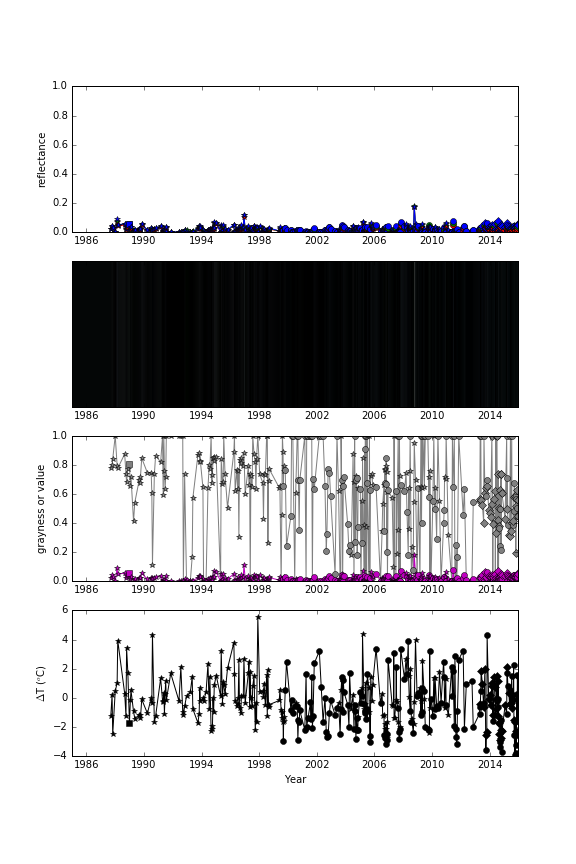
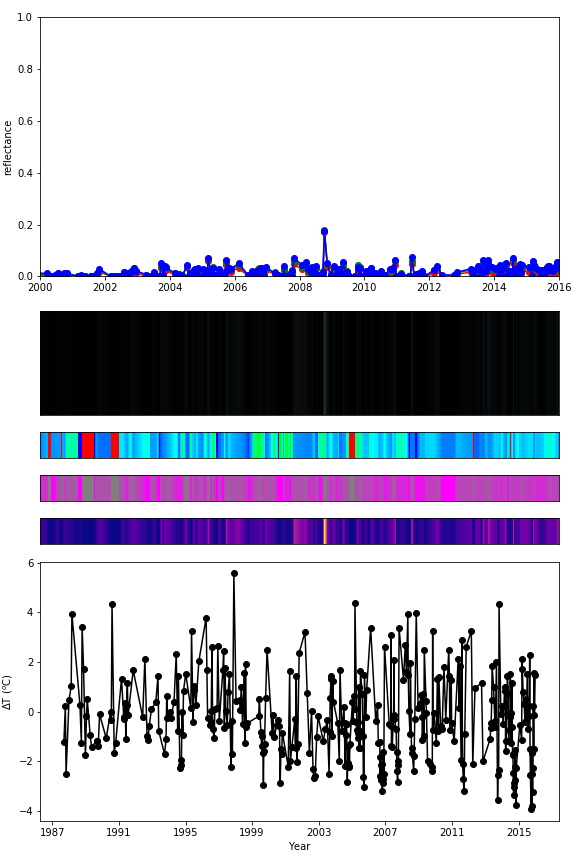
plots push

diff --git a/plot_time_series_v3.py b/plot_time_series_v3.py
@@ -1,13 +1,12 @@
 #!/usr/bin/env python3
 # -*- coding: utf-8 -*-
 """
-plot_time_series_v3.py
 
-Created on Fri Feb 10 16:25:34 2017
+plot_time_series_v2.py
 
+Created on Mon Feb  6 20:53:54 2017
 @author: sam
 """
-
 import os
 import numpy as np
 import datetime
@@ -35,6 +34,23 @@ def interpolate_RGB(r,g,b,timestamps, start, stop):
   return list(zip(R,G,B))
 
 
+
+def grey_magenta_cmap():
+  """
+  Creates a color map from grey to magenta for saturation visualization
+  """
+  
+  color_list = []
+  
+  for alpha in np.linspace(0,1,101):
+    grey_component = np.array([g*(1-alpha) for g in (0.5,0.5,0.5)])
+    magenta_component = np.array([m*alpha for m in (1,0,1)])
+    color_list.append(grey_component+magenta_component)
+    
+  return ListedColormap(color_list, name='from_list')
+
+
+
 # Data
 targets = ['Azufral','Chichon_El','Copahue','Ijen','Kelimutu_a','Kelimutu_b','Kelimutu_c','Poas','Rincon_de_la_Vieja','Ruapehu','Yugama']
 
@@ -51,8 +67,8 @@ for target in targets:
   # Interpolate RGB over time period
   RGB = interpolate_RGB(D['r'],D['g'],D['b'],D['timestamps'],start,stop)
   
-  # Linear strech
-  stretched_RGB = np.array(RGB) * 1/np.max(RGB)
+  # Calculate HSV for interpolated RGB values
+  HSV = [colorsys.rgb_to_hsv(x[0],x[1],x[2]) for x in RGB]
   
   # figure
   fig = plt.figure(figsize=(8,12))
@@ -60,11 +76,12 @@ for target in targets:
   # size of figure components
   plot_height = 0.3
   bar = 0.12
+  minibar = 0.03
   gap = 0.05
-  minigap = 0.02
+  mini_gap = 0.02
   
   # plot r,g,b, trendlines
-  axplot = fig.add_axes([0.07,gap+plot_height+4*minigap+2*bar,0.90,plot_height])
+  axplot = fig.add_axes([0.07,plot_height+gap+6*mini_gap+3*minibar+bar,0.90,plot_height])
   axplot.plot(D['datetimes'],D['r'],'r-o')
   axplot.plot(D['datetimes'],D['g'],'g-o')
   axplot.plot(D['datetimes'],D['b'],'b-o')
@@ -73,17 +90,30 @@ for target in targets:
   axplot.set_ylabel('reflectance')
   
   # visualize rgb
-  axRGB = fig.add_axes([0.07,gap+plot_height+2*minigap+bar,0.9,bar])
+  axRGB = fig.add_axes([0.07,plot_height+gap+4*mini_gap+3*minibar,0.9,bar])
   axRGB.imshow([RGB], interpolation='nearest', aspect='auto') #stretches rgb to fit axes
   axRGB.set_xticks([])
   axRGB.set_yticks([])
   
-  # linear stretch rgb
-  #stretched_RGB
-  axRGB = fig.add_axes([0.07,gap+plot_height+minigap,0.9,bar])
-  axRGB.imshow([stretched_RGB], interpolation='nearest', aspect='auto') #stretches rgb to fit axes
-  axRGB.set_xticks([])
-  axRGB.set_yticks([])
+  # visualize hue (using saturation = 1 and value = 1)
+  hue = [x[0] for x in HSV]
+  H = [colorsys.hsv_to_rgb(h,1,1) for h in hue]
+  axH = fig.add_axes([0.07,plot_height+gap+3*mini_gap+2*minibar,0.9,minibar])
+  axH.imshow([H], interpolation='nearest', aspect='auto',cmap='plasma') 
+  axH.set_xticks([])
+  axH.set_yticks([])
+  
+  # visualize saturation
+  axS = fig.add_axes([0.07,plot_height+gap+2*mini_gap+minibar,0.9,minibar])
+  axS.imshow([[x[1] for x in HSV]], interpolation='nearest', aspect='auto',cmap=grey_magenta_cmap()) 
+  axS.set_xticks([])
+  axS.set_yticks([])
+  
+  # visualize value
+  axV = fig.add_axes([0.07,plot_height+gap+mini_gap,0.9,minibar])
+  axV.imshow([[x[2] for x in HSV]], interpolation='nearest', aspect='auto',cmap='plasma') 
+  axV.set_xticks([])
+  axV.set_yticks([])
   
   # plot delta temperatures
   axT = fig.add_axes([0.07,gap,0.9,plot_height])
@@ -96,9 +126,20 @@ for target in targets:
   if not os.path.exists(outdir):
     os.mkdir(outdir)
   os.chdir(outdir)
-  plt.savefig(target+'_v2.png')
+  plt.savefig(target+'_v3.png')
   plt.close()
-  
+
+
+
+
+
+
+
+
+
+
+
+
 
 
 

diff --git a/plot_time_series_v1.py b/plot_time_series_v1.py
@@ -43,33 +43,37 @@ def read_csv(target):
     print('File IO error for :'+target)
   
 
-target = 'Azufral'
+# Data
+targets = ['Azufral','Chichon_El','Copahue','Ijen','Kelimutu_a','Kelimutu_b','Kelimutu_c','Poas','Rincon_de_la_Vieja','Ruapehu','Yugama']
 
-# figure with subplots
-fig = plt.figure(figsize=(8,12))
-ax1 = fig.add_subplot(4,1,1) # four rows, one column, first plot                   
-ax2 = fig.add_subplot(4,1,2) 
-ax3 = fig.add_subplot(4,1,3) 
-ax4 = fig.add_subplot(4,1,4)
+for target in targets:
+  
+  print(target)
 
-# time period
-start = datetime.datetime(1985,1,1)
-stop  = datetime.datetime(2016,1,1)   
-
-# load data
-data = read_csv(target)
-
-# plot
-plot_RGB(ax1, data, start, stop)
-plot_color_timeseries(ax2, data, start, stop, 10)
-plot_greyness_and_value(ax3, data, start, stop)
-plot_dT(ax4, data, start, stop)
-
-
-outdir = '/home/sam/git/crater_lakes/plots/'+target
-if not os.path.exists(outdir):
-  os.mkdir(outdir)
-os.chdir(outdir)
-plt.savefig(target+'.png')
-plt.show()
-#  plt.close(fig)
+  # figure with subplots
+  fig = plt.figure(figsize=(8,12))
+  ax1 = fig.add_subplot(4,1,1) # four rows, one column, first plot                   
+  ax2 = fig.add_subplot(4,1,2) 
+  ax3 = fig.add_subplot(4,1,3) 
+  ax4 = fig.add_subplot(4,1,4)
+  
+  # time period
+  start = datetime.datetime(1985,1,1)
+  stop  = datetime.datetime(2016,1,1)   
+  
+  # load data
+  data = read_csv(target)
+  
+  # plot
+  plot_RGB(ax1, data, start, stop)
+  plot_color_timeseries(ax2, data, start, stop, 10)
+  plot_greyness_and_value(ax3, data, start, stop)
+  plot_dT(ax4, data, start, stop)
+  
+  
+  outdir = '/home/sam/git/crater_lakes/plots/'+target
+  if not os.path.exists(outdir):
+    os.mkdir(outdir)
+  os.chdir(outdir)
+  plt.savefig(target+'_v1.png')
+  plt.close()

diff --git a/bin/read_csv.py b/bin/read_csv.py
@@ -1,0 +1,32 @@
+#!/usr/bin/env python3
+# -*- coding: utf-8 -*-
+"""
+read_csv.py
+
+Created on Fri Feb 10 08:48:07 2017
+@author: sam
+"""
+
+import os
+import pandas as pd
+import numpy as np
+import datetime
+
+def read_csv(target):
+  
+  try:
+    os.chdir('/home/sam/git/crater_lakes/atmcorr/results/'+target)
+    
+    df = pd.read_csv(target+'.csv')
+    
+    return {
+      'r':np.clip(df.red.values,0,1),
+      'g':np.clip(df.green.values,0,1),
+      'b':np.clip(df.blue.values,0,1),
+      'dT':df.dBT.values,
+      'timestamps':df.timestamp.values,
+      'datetimes':[datetime.datetime.fromtimestamp(t) for t in df.timestamp.values],    
+      'satellites':df.satellite.values
+      }
+  except:
+    print('File IO error for :'+target)
